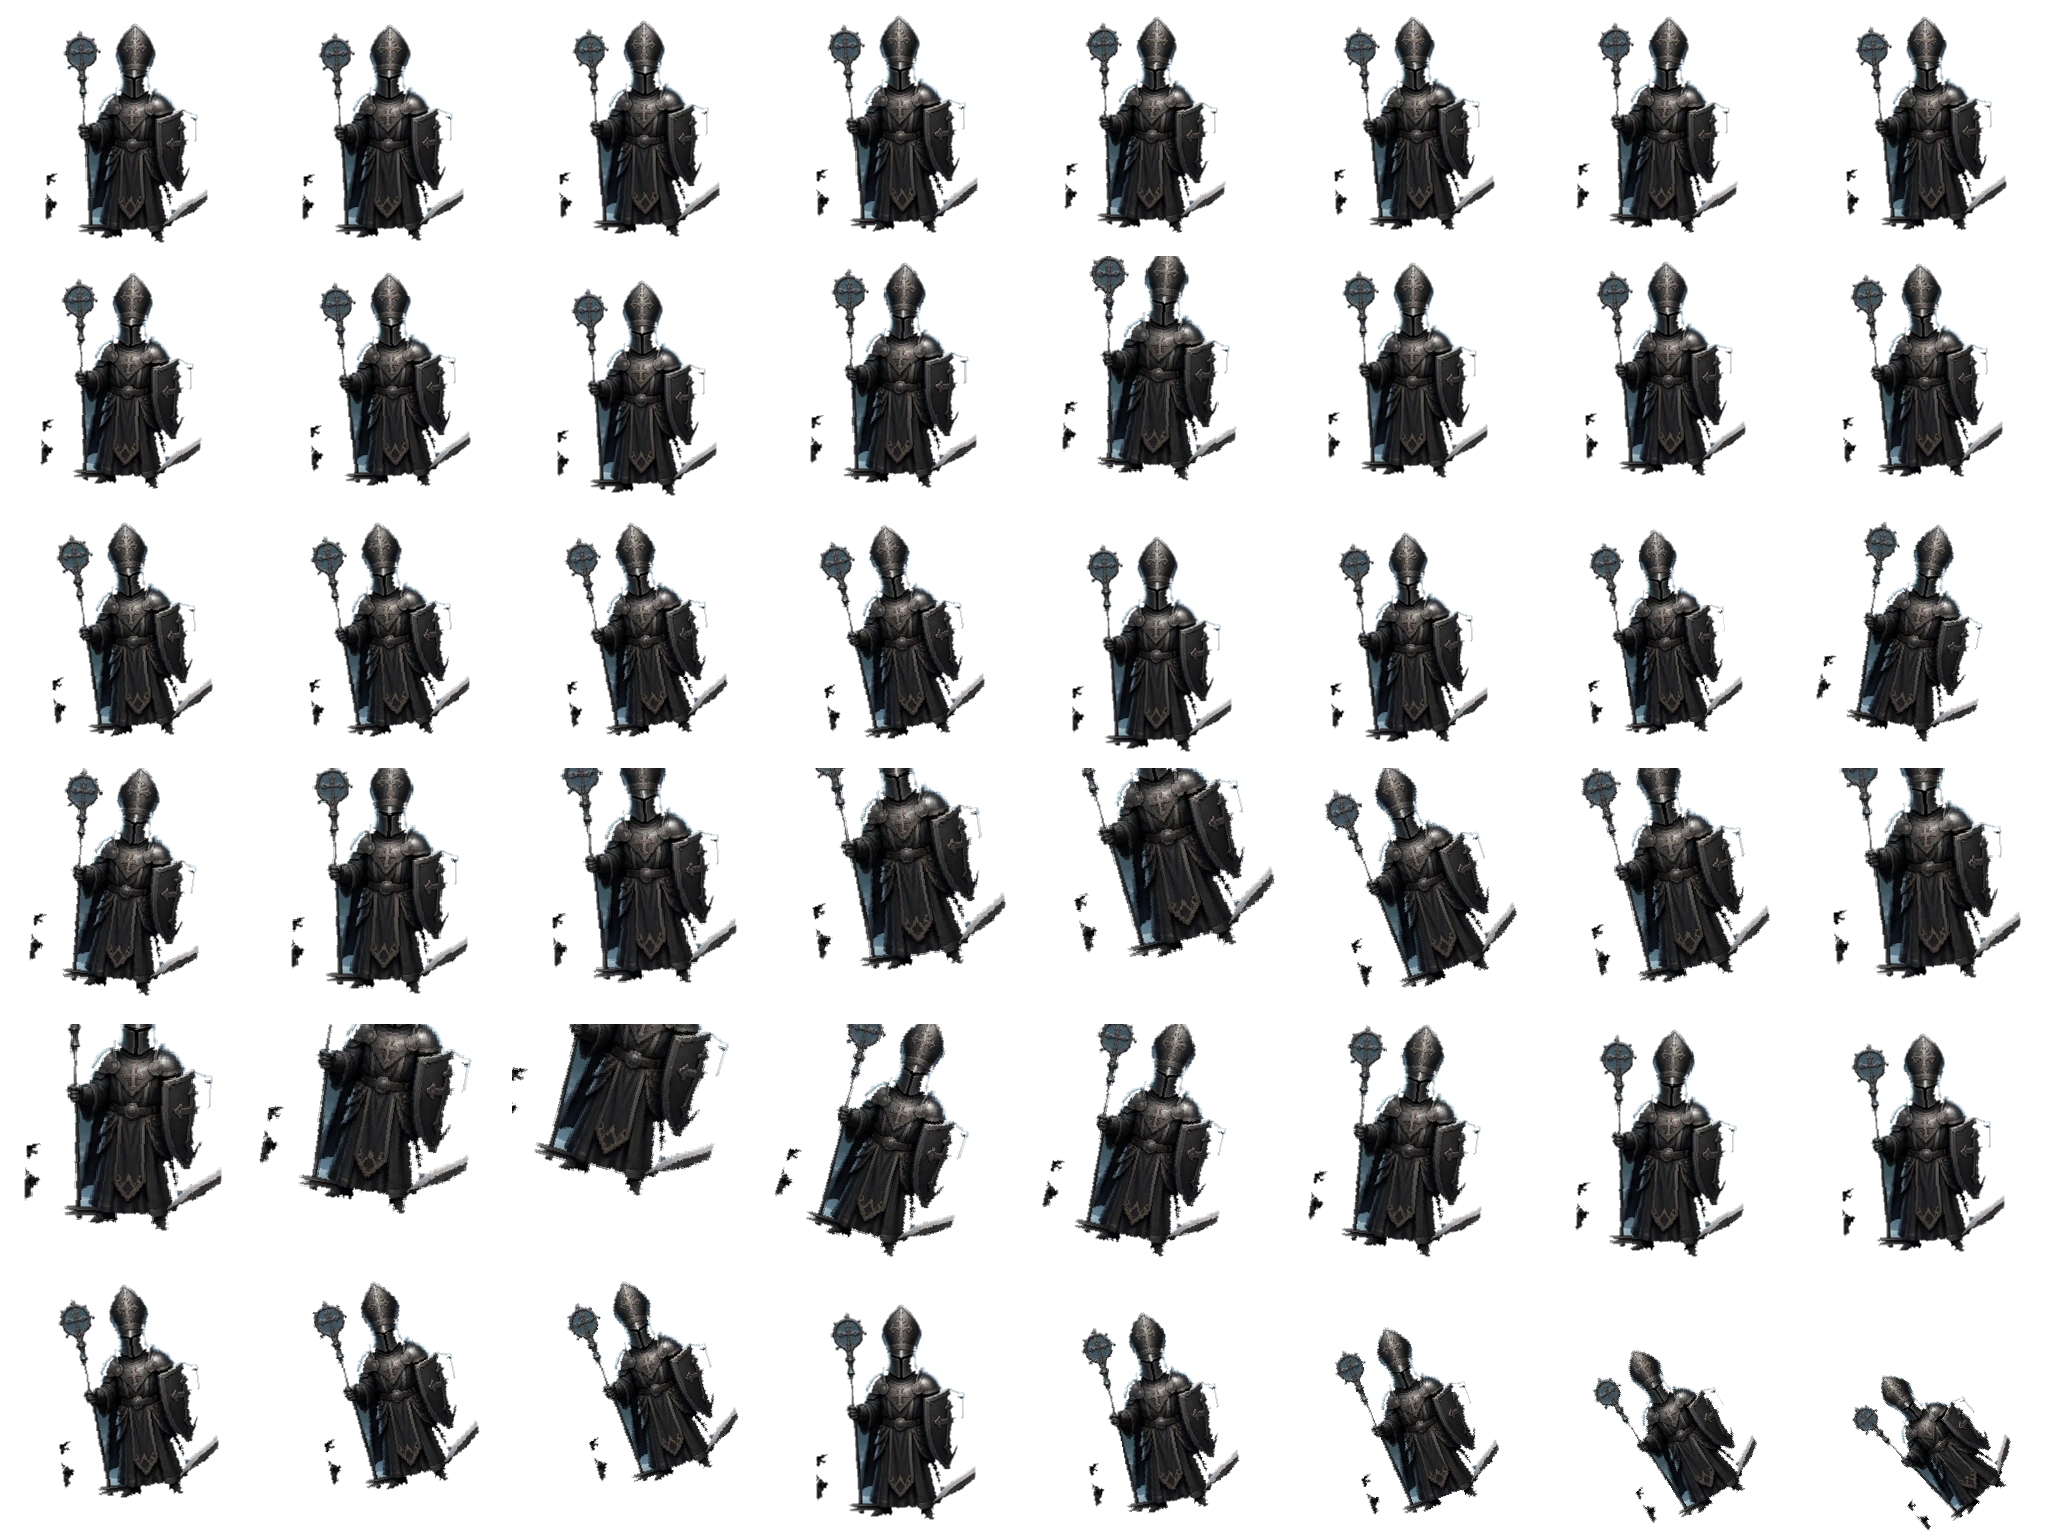
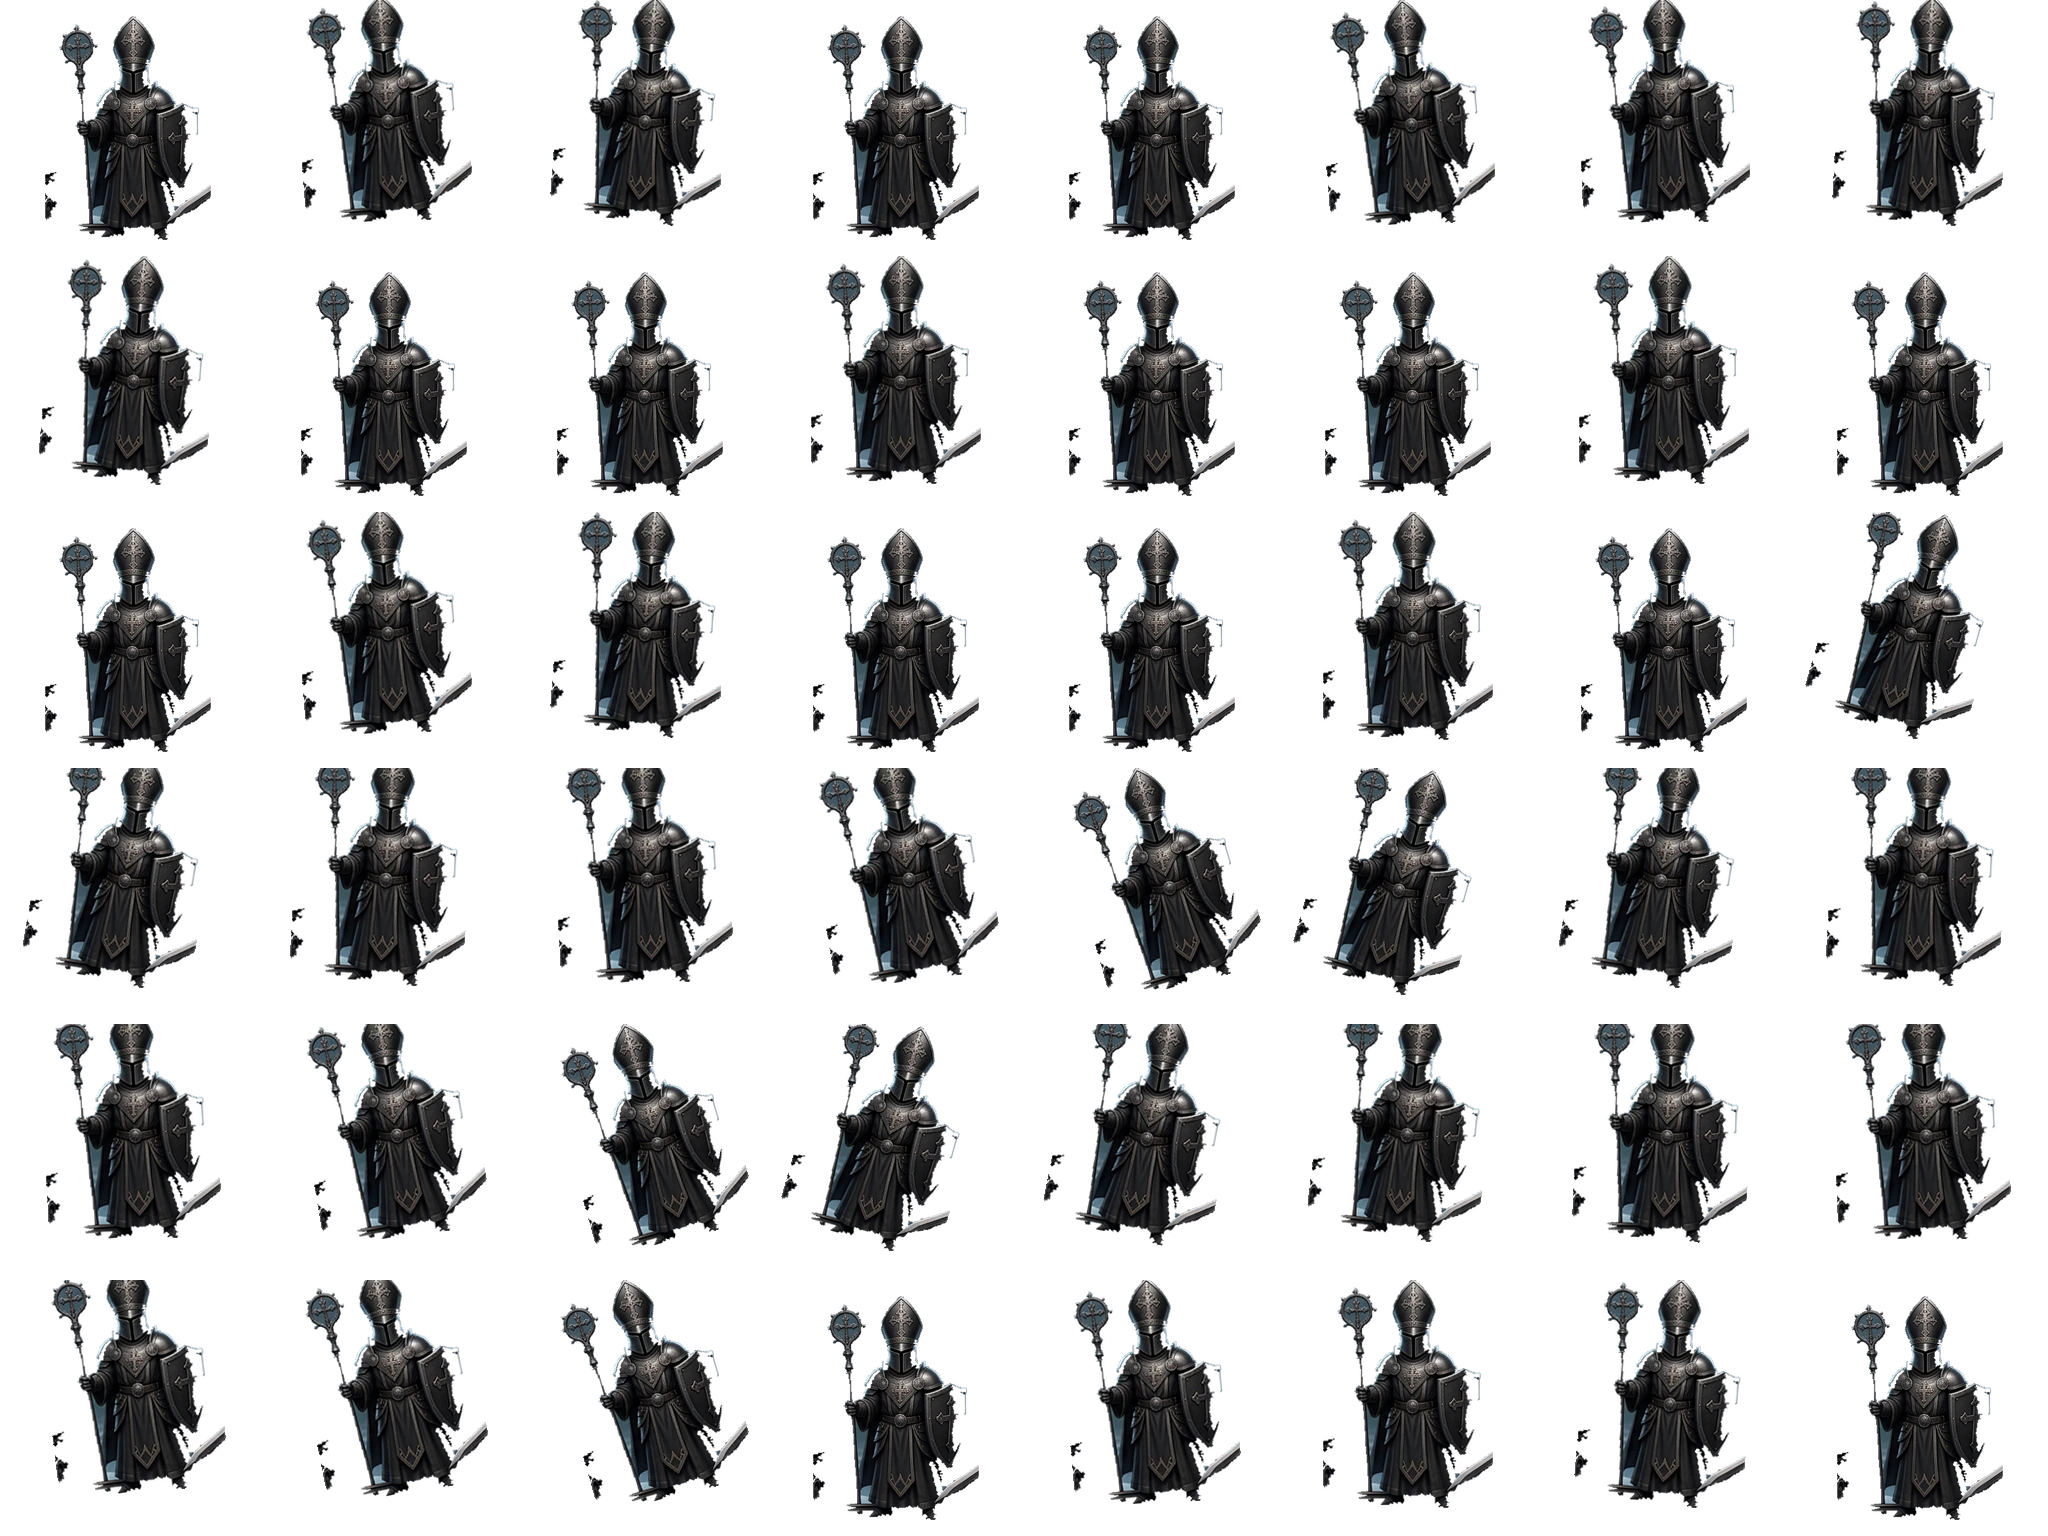
feat: diversify high resolution character motions

diff --git a/tools/pack_character_assets.py b/tools/pack_character_assets.py
@@ -1,11 +1,14 @@
 #!/usr/bin/env python3
 """Turn the six coherent character cells into lightweight animated sheets."""
 
+import math
 from pathlib import Path
 from PIL import Image
 
 ROOT = Path(__file__).resolve().parents[1]
-SOURCE = ROOT / "sprites-web.png"
+# Use the original high-resolution sheet for the animated pieces. The web
+# sheet is intentionally smaller and is only kept for the legacy CSS layer.
+SOURCE = ROOT / "sprites.png"
 OUT = ROOT / "assets/pieces"
 CELL = 256
 COLS, ROWS = 8, 6
@@ -37,44 +40,62 @@ def fitted(base: Image.Image) -> Image.Image:
     max_w, max_h = 208, 224
     scale = min(max_w / base.width, max_h / base.height, 1.0)
     size = (max(1, round(base.width * scale)), max(1, round(base.height * scale)))
-    return base.resize(size, Image.Resampling.NEAREST)
+    return base.resize(size, Image.Resampling.LANCZOS)
 
 
-def frame(base: Image.Image, index: int) -> Image.Image:
-    # Procedural animation keeps every original character intact while giving
-    # each state distinct motion without scattering the old 3-D fragments.
-    if index < 4:
-        phase = (index - 1.5) / 1.5
-        angle, dx, dy, scale = phase * 1.3, 0, round(-phase * 2), 1 + abs(phase) * .012
-    elif index < 10:
-        phase = ((index - 4) % 2) * 2 - 1
-        angle, dx, dy, scale = phase * 2.4, phase * 4, -2, 1.0
-    elif index < 13:
-        phase = index - 10
-        angle, dx, dy, scale = -phase * 2, (phase - 1) * 3, -phase * 3, 1 + phase * .04
-    elif index < 20:
-        phase = index - 13
-        angle, dx, dy, scale = phase * 1.5, 0, -round((6 - phase) * 1.5), 1.0
-    elif index < 23:
-        phase = index - 20
-        angle, dx, dy, scale = phase * 3, -phase * 2, -phase * 2, 1 - phase * .02
-    elif index < 29:
-        phase = index - 23
-        angle, dx, dy, scale = -12 + phase * 5, -8 + phase * 3, -phase * 3, 1 + phase * .05
-    elif index < 35:
-        phase = index - 29
-        angle, dx, dy, scale = 18 - phase * 7, 8 - phase * 3, -phase * 5, 1.05 + phase * .06
-    elif index < 43:
-        phase = index - 35
-        angle, dx, dy, scale = -18 + phase * 5, -6 + phase * 2, 4 - phase * 2, 1.12 - phase * .025
-    else:
-        phase = index - 43
-        angle, dx, dy, scale = phase * 10, phase * 3, phase * 3, 1 - phase * .06
+def state_at(index: int) -> tuple[str, int, int]:
+    for name, (start, count, _fps, _loop) in STATES.items():
+        if start <= index < start + count:
+            return name, index - start, count
+    raise ValueError(f"frame outside state ranges: {index}")
+
+
+def motion(piece: str, state: str, local: int, count: int) -> tuple[float, float, float, float]:
+    t = local / max(count - 1, 1)
+    wave = math.sin(t * math.pi * 2)
+    arc = math.sin(t * math.pi)
+    signed = t * 2 - 1
+
+    # Each piece has its own silhouette rhythm, then its attack state adds the
+    # recognizable action for that unit instead of reusing one generic wobble.
+    if piece == "K":
+        if state in {"attackA", "attackB", "finisher"}:
+            return (-28 + 58 * t, -9 + 18 * t, -12 * arc, 1 + .08 * arc)
+        return (2.5 * wave, 2 * wave, -3 * arc, 1 + .018 * arc)
+    if piece == "Q":
+        if state in {"attackA", "attackB"}:
+            return (18 * wave, 9 * wave, -14 * arc, 1 + .08 * arc)
+        if state == "finisher":
+            return (-24 + 48 * t, 10 * wave, -16 * arc, 1 + .1 * arc)
+        return (4 * wave, 3 * wave, -5 * arc, 1 + .025 * arc)
+    if piece == "R":
+        if state in {"attackA", "attackB"}:
+            recoil = math.sin(t * math.pi)
+            return (-3 * signed, -18 * recoil, -4 * recoil, 1 + .13 * recoil)
+        return (1.5 * wave, 1.5 * wave, -2 * arc, 1 + .012 * arc)
+    if piece == "B":
+        if state in {"attackA", "attackB", "finisher"}:
+            return (-16 + 32 * t, -10 + 20 * t, -10 * arc, 1 + .05 * arc)
+        return (5 * wave, -2 * wave, -6 * arc, 1 + .022 * arc)
+    if piece == "N":
+        if state in {"anticipation", "attackA", "attackB", "finisher"}:
+            jump = -28 * arc if state != "finisher" else -12 * arc
+            return (-14 + 28 * t, 12 * signed, jump, 1 + .1 * arc)
+        return (3 * wave, 3 * wave, -5 * arc, 1 + .03 * arc)
+    # Pawn: short, quick forward thrust and a small recovery bounce.
+    if state in {"attackA", "attackB", "finisher"}:
+        return (12 * wave, -12 + 24 * t, -12 * arc, 1 + .06 * arc)
+    return (3 * wave, 2 * wave, -7 * arc, 1 + .02 * arc)
+
+
+def frame(base: Image.Image, piece: str, index: int) -> Image.Image:
+    state, local, count = state_at(index)
+    angle, dx, dy, scale = motion(piece, state, local, count)
 
     w = max(1, round(base.width * scale))
     h = max(1, round(base.height * scale))
-    pose = base.resize((w, h), Image.Resampling.NEAREST).rotate(
-        angle, resample=Image.Resampling.NEAREST, expand=True
+    pose = base.resize((w, h), Image.Resampling.LANCZOS).rotate(
+        angle, resample=Image.Resampling.BICUBIC, expand=True
     )
     canvas = Image.new("RGBA", (CELL, CELL))
     x = round((CELL - pose.width) / 2 + dx)
@@ -90,7 +111,7 @@ def build() -> None:
             base = fitted(source_piece(image, side, piece_index))
             sheet = Image.new("RGBA", (COLS * CELL, ROWS * CELL))
             for index in range(48):
-                sheet.alpha_composite(frame(base, index), ((index % COLS) * CELL, (index // COLS) * CELL))
+                sheet.alpha_composite(frame(base, piece, index), ((index % COLS) * CELL, (index // COLS) * CELL))
             sheet.save(OUT / f"{prefix}{piece}-animated.webp", format="WEBP", quality=92, method=6)
     print("PACKED 12 character sheets, 48 frames each")
 
